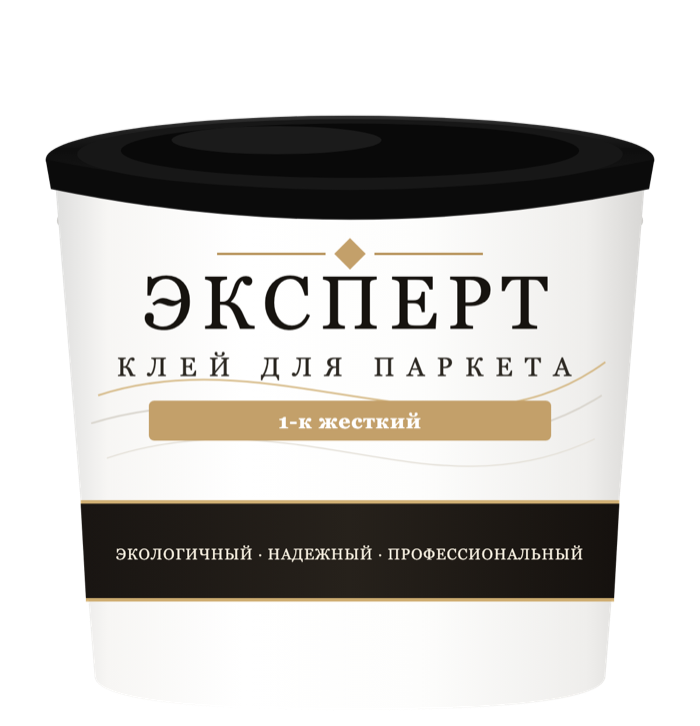
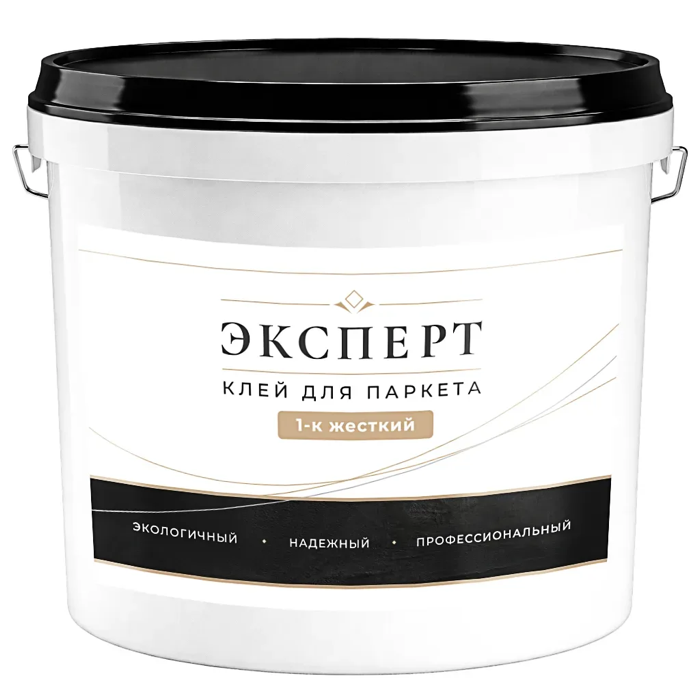
Hero: кадровая canvas-секвенция вместо video-seek (60fps скраб), реальный рендер 156-3, правки типографики

diff --git a/src/components/Hero.tsx b/src/components/Hero.tsx
@@ -10,15 +10,17 @@ import {
 import { asset } from '@/lib/utils'
 
 /* ----------------------------------------------------------------------------
-   Скролл-кино «ЭКСПЕРТ»: фотореалистичный ролик (Higgsfield / Seedance 2.0)
-   фоном на весь экран, перемотка привязана к скроллу с плавным «догоном».
-   Сцены ролика (15 c): витрина → крышка → пролив → гребёнка → паркет.
+   Скролл-кино «ЭКСПЕРТ»: ролик Higgsfield разложен на 180 JPEG-кадров,
+   отрисовка на canvas 60 fps с межкадровым блендингом — идеально гладкий скраб
+   без задержек видео-декодера. Сцены: витрина → крышка → пролив → гребёнка → паркет.
 ---------------------------------------------------------------------------- */
 
-const VIDEO_SRC = asset('/assets/hero/hero.mp4')
+const FRAME_COUNT = 180
 const POSTER_SRC = asset('/assets/hero/poster.jpg')
+const frameSrc = (i: number) =>
+  asset(`/assets/hero/frames/frame-${String(i).padStart(3, '0')}.jpg`)
 
-/* Подписи кадров поверх видео */
+/* Подписи кадров поверх сцены */
 function StageCaption({
   progress,
   at,
@@ -49,7 +51,7 @@ function StageCaption({
 
 export function Hero() {
   const ref = useRef<HTMLElement>(null)
-  const videoRef = useRef<HTMLVideoElement>(null)
+  const canvasRef = useRef<HTMLCanvasElement>(null)
   const reduced = useReducedMotion()
   const { scrollYProgress } = useScroll({
     target: ref,
@@ -58,27 +60,76 @@ export function Hero() {
   /* Спринг — только для текстовых оверлеев */
   const progress = useSpring(scrollYProgress, { stiffness: 110, damping: 26, mass: 0.35 })
 
-  /* Перемотка видео: экспоненциальный «догон» + не ставим новый seek, пока идёт старый */
+  /* Кадровый плеер: догоняющая интерполяция + блендинг соседних кадров */
   useEffect(() => {
     if (reduced) return
-    const video = videoRef.current
-    if (!video) return
+    const canvas = canvasRef.current
+    if (!canvas) return
+    const ctx = canvas.getContext('2d')
+    if (!ctx) return
+
+    const images: HTMLImageElement[] = []
+    const loaded = new Uint8Array(FRAME_COUNT)
+    for (let i = 0; i < FRAME_COUNT; i++) {
+      const img = new Image()
+      img.decoding = 'async'
+      img.src = frameSrc(i)
+      img.onload = () => { loaded[i] = 1 }
+      images.push(img)
+    }
+
+    const dpr = Math.min(window.devicePixelRatio || 1, 2)
+    const fit = () => {
+      canvas.width = Math.round(canvas.clientWidth * dpr)
+      canvas.height = Math.round(canvas.clientHeight * dpr)
+    }
+    fit()
+    window.addEventListener('resize', fit)
+
+    /* cover-отрисовка кадра на весь canvas */
+    const drawCover = (img: HTMLImageElement, alpha: number) => {
+      const cw = canvas.width, ch = canvas.height
+      const iw = img.naturalWidth, ih = img.naturalHeight
+      if (!iw || !ih) return
+      const s = Math.max(cw / iw, ch / ih)
+      const w = iw * s, h = ih * s
+      ctx.globalAlpha = alpha
+      ctx.drawImage(img, (cw - w) / 2, (ch - h) / 2, w, h)
+    }
+    const nearestLoaded = (i: number) => {
+      for (let d = 0; d < FRAME_COUNT; d++) {
+        if (i - d >= 0 && loaded[i - d]) return i - d
+        if (i + d < FRAME_COUNT && loaded[i + d]) return i + d
+      }
+      return -1
+    }
+
     let raf = 0
     let current: number | null = null
-    const sync = () => {
-      raf = requestAnimationFrame(sync)
-      const d = video.duration
-      if (!d || Number.isNaN(d) || video.readyState < 2) return
-      const target = Math.min(d - 0.05, Math.max(0, scrollYProgress.get() * d))
-      if (current === null) current = target /* старт без «отмотки с нуля» */
-      current += (target - current) * 0.16
-      if (Math.abs(target - current) < 0.003) current = target
-      if (!video.seeking && Math.abs(video.currentTime - current) > 1 / 60) {
-        video.currentTime = current
-      }
+    let lastDrawn = -1
+    const tick = () => {
+      raf = requestAnimationFrame(tick)
+      const target = scrollYProgress.get() * (FRAME_COUNT - 1)
+      if (current === null) current = target
+      current += (target - current) * 0.17
+      if (Math.abs(target - current) < 0.02) current = target
+      if (Math.abs(current - lastDrawn) < 0.015 && canvas.width) return
+
+      const base = Math.floor(current)
+      const frac = current - base
+      const a = nearestLoaded(base)
+      if (a < 0) return
+      drawCover(images[a], 1)
+      const b = base + 1
+      if (frac > 0.02 && b < FRAME_COUNT && loaded[b]) drawCover(images[b], frac)
+      ctx.globalAlpha = 1
+      lastDrawn = current
     }
-    raf = requestAnimationFrame(sync)
-    return () => cancelAnimationFrame(raf)
+    raf = requestAnimationFrame(tick)
+    return () => {
+      cancelAnimationFrame(raf)
+      window.removeEventListener('resize', fit)
+    }
   }, [scrollYProgress, reduced])
 
   /* Интро поверх тёмного первого кадра: гаснет при первом же движении */
@@ -112,16 +163,12 @@ export function Hero() {
   return (
     <section ref={ref} aria-label="ЭКСПЕРТ — клей для паркета" className="relative h-[520vh]">
       <div className="sticky top-0 h-screen overflow-hidden bg-[#14100b]">
-        {/* Видео-сцена: фон на весь экран с первого кадра */}
-        <video
-          ref={videoRef}
-          src={VIDEO_SRC}
-          poster={POSTER_SRC}
-          muted
-          playsInline
-          preload="auto"
+        {/* Кадровая сцена */}
+        <canvas
+          ref={canvasRef}
           aria-hidden
-          className="absolute inset-0 h-full w-full object-cover"
+          className="absolute inset-0 h-full w-full"
+          style={{ backgroundImage: `url(${POSTER_SRC})`, backgroundSize: 'cover', backgroundPosition: 'center' }}
         />
 
         {/* Интро: светлый заголовок в воздухе тёмной студии, над ведром */}

diff --git a/src/lib/content.ts b/src/lib/content.ts
@@ -15,7 +15,7 @@ export interface Product {
   hardnessScale: 'Шор А' | 'Шор Д'
   hardnessValue: number
   shear: string
-  elasticity: 'жесткий' | 'жестко-эластичный' | 'эластичный'
+  elasticity: 'Жесткий' | 'Жестко-эластичный' | 'Эластичный'
   pack: string
   packKg: number
   ratio?: string
@@ -38,7 +38,7 @@ export const products: Product[] = [
     hardnessScale: 'Шор А',
     hardnessValue: 50,
     shear: '≥ 3,0 Н/мм²',
-    elasticity: 'жесткий',
+    elasticity: 'Жесткий',
     pack: 'Ведро 15 кг',
     packKg: 15,
     tu: 'ТУ 20.52.10-011-40544164-2025',
@@ -63,7 +63,7 @@ export const products: Product[] = [
     hardnessScale: 'Шор А',
     hardnessValue: 45,
     shear: '≥ 2,0 Н/мм²',
-    elasticity: 'жестко-эластичный',
+    elasticity: 'Жестко-эластичный',
     pack: 'Ведро 15 кг',
     packKg: 15,
     tu: 'ТУ 20.52.10-011-40544164-2025',
@@ -88,7 +88,7 @@ export const products: Product[] = [
     hardnessScale: 'Шор А',
     hardnessValue: 40,
     shear: '≥ 1,0 Н/мм²',
-    elasticity: 'эластичный',
+    elasticity: 'Эластичный',
     pack: 'Ведро 15 кг',
     packKg: 15,
     tu: 'ТУ 20.52.10-011-40544164-2025',
@@ -113,7 +113,7 @@ export const products: Product[] = [
     hardnessScale: 'Шор Д',
     hardnessValue: 45,
     shear: '≥ 3,0 Н/мм²',
-    elasticity: 'жесткий',
+    elasticity: 'Жесткий',
     pack: 'Ведро 8,9 кг + отвердитель 1,1 кг',
     packKg: 10,
     ratio: 'А:Б — 8:1',
@@ -139,7 +139,7 @@ export const products: Product[] = [
     hardnessScale: 'Шор Д',
     hardnessValue: 40,
     shear: '≥ 2,0 Н/мм²',
-    elasticity: 'жестко-эластичный',
+    elasticity: 'Жестко-эластичный',
     pack: 'Ведро 8,9 кг + отвердитель 1,1 кг',
     packKg: 10,
     ratio: 'А:Б — 7:1',

diff --git a/src/components/Products.tsx b/src/components/Products.tsx
@@ -37,7 +37,7 @@ export function Products() {
             }`}
           >
             <span className="font-mono text-[0.62rem] uppercase tracking-[0.18em] text-gold-600">{p.kind}</span>
-            <span className="mt-1 block text-sm font-semibold capitalize leading-tight text-ink">
+            <span className="mt-1 block text-sm font-semibold leading-tight text-ink">
               {p.elasticity}
             </span>
             <span className="mt-1 block font-mono text-[0.62rem] text-muted">{p.id}</span>